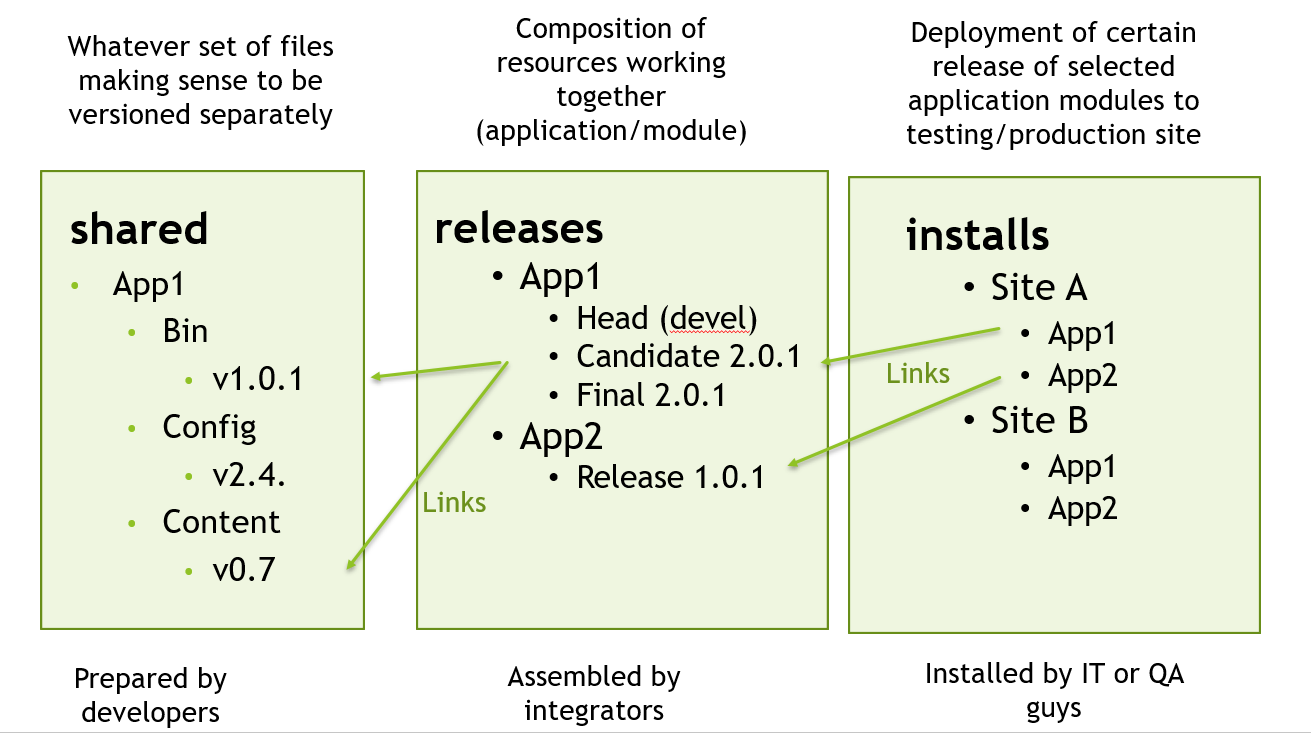
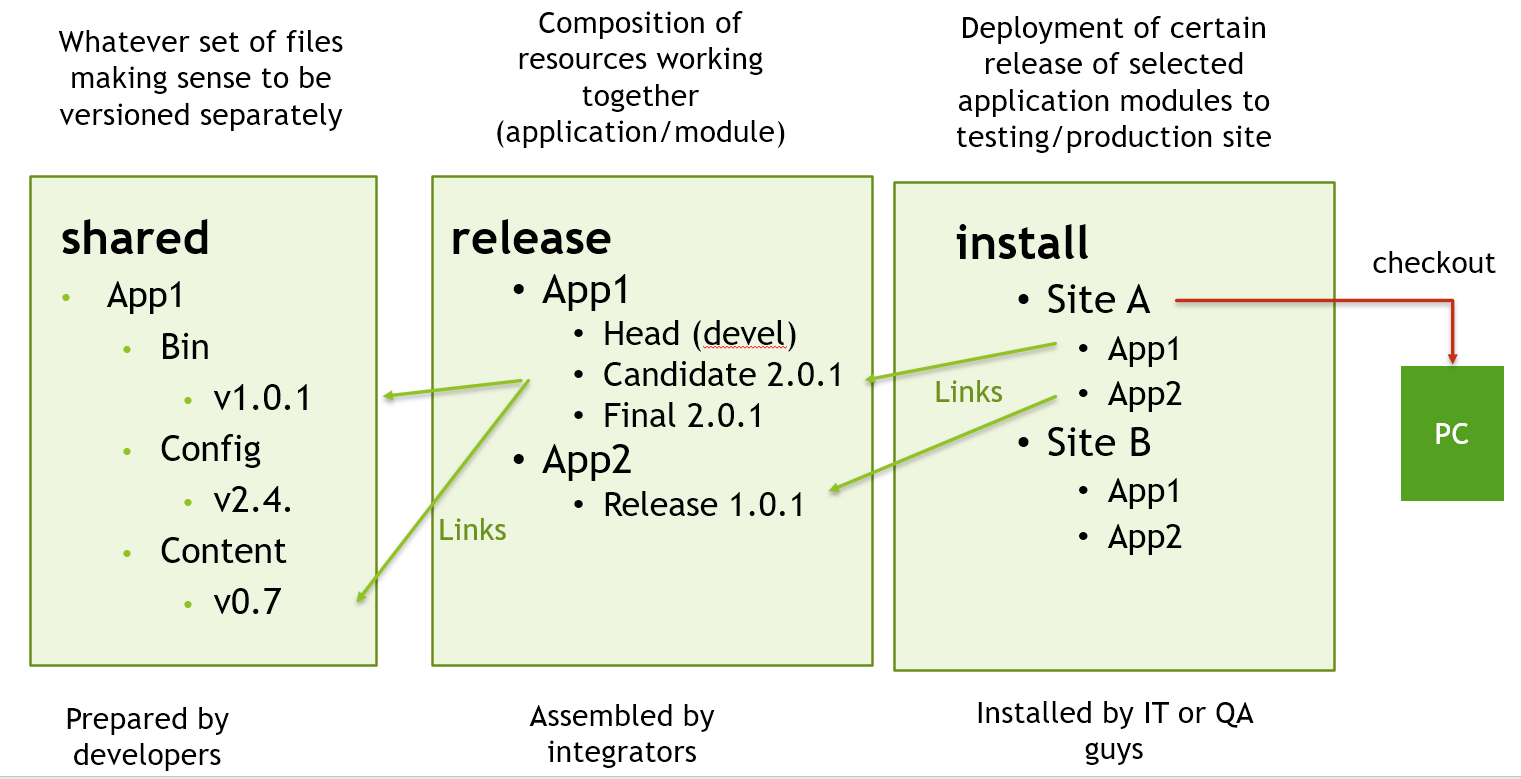
readme corrected

diff --git a/README.md b/README.md
@@ -1,22 +1,38 @@
 # Deployer
-
-![](Deployer.png)
-
-## Purpose
-
 * Maintains a software project deployment structure in a SVN repository.
 
 * Composes releases from different application modules from versioned components (shared resources). 
 
 * Picks what to deploy on what site.
 
-## Repository-oriented
+![](Deployer.png)
+
+## Command line
+`Deployer.exe [<url of svn repository>]`
+
+**Example 1**
+
+`Deployer.exe`
+
+Starts the Deployer with no explicit repository URL. The URL needs to be entered manually. If the Deployer's working directory is set to within a working copy, Deployer determines the URL of the repository automatically.
+
+**Example 2**
+
+`Deployer.exe svn://svn.server.com/yourrepo/`
+
+Starts the Deployer with given repository URL. 
+
+## Repository-oriented, working with TortoiseSVN
 
 Deployer works directly with a svn repository on the server.
 
-Deployer can be started from wherever place having access to the svn server.
+Deployer does not require any local working copies to be checked out. It does not load anything from local data files. Everything is read from and stored to the repository on the server.
 
-Deployer does not use any local working copies nor any other local data files. Everything is read from and stored to the repository on the server.
+Deployer can be started from whatever place having access to the svn server.
+
+Deployer launches the TortoiseSVN Repo-browser and TortoiseSVN Checkout dialog.
+
+![](OperationFlow.png)
 
 **Note:**
 Everything what Deployer can do can be done manually as well by using standard subversion client operations manipulating with the repository.
@@ -51,14 +67,14 @@ The repository is expected to have the following structure:
   * whatever/component/folder/structure
     * trunk
   * etc...
-* **releases**
+* **release**
   * <app module name>
     * head
       * Master   *<--- Here the externals to shared are placed. This is referenced from installs.*
     * integration
     * candidate
     * final
-* **installs**
+* **install**
   * whatever/deployment/site
     * trunk *<--- Here the externals to releases are placed*
 
@@ -97,9 +113,9 @@ The repository is expected to have the following structure:
 ## Release types
 Deployer recognizes the following predefined types of releases that differ in what link type they use.
  *  **head** ... uses HEAD externals
- *  **integration** ... uses PEG externals
- *  **candidate** ... uses BRANCH external
- *  **final** ... uses TAG externals
+ *  **integration** ... uses PEG externals (pins the trunk to its current revision)
+ *  **candidate** ... uses BRANCH external (creates a branch for each linked resource)
+ *  **final** ... uses TAG externals (creates a tag for each linked resource)
 
 ## New release creation
 A new release is always created as a copy of an existing release. 
@@ -119,9 +135,9 @@ Deployer supports easy linking of selected release to given installation.
 
 Deployer does not handle the authentication in any way.
 
-It assumes the all the svn repositories used have been already accessed before using a svn client that has already cached all the credentials necessary. That applies to the main repository as well as to all repositories referenced using svn:externals links.
+It relies on the credentials already being cached by the previous access to the repositories via a svn client (TortoiseSVN) on the same computer.
 
-If authentication is still required for some repository, the Deployer most likely crashes with some authentication related exception dialog.
+If the credentials are not yet cached and the authentication is still required for some repository, the Deployer most likely crashes with some authentication related exception dialog.
 
-Resolution: use Tortoise SVN to connect to the repository and check "Remeber user name and password" when asked for credentials. Run Deployer again, this time it should be ok.
+**Resolution:** use Tortoise SVN to connect to the repository and check "Remember user name and password" when asked for credentials. Run Deployer again, this time it should be ok.
 
